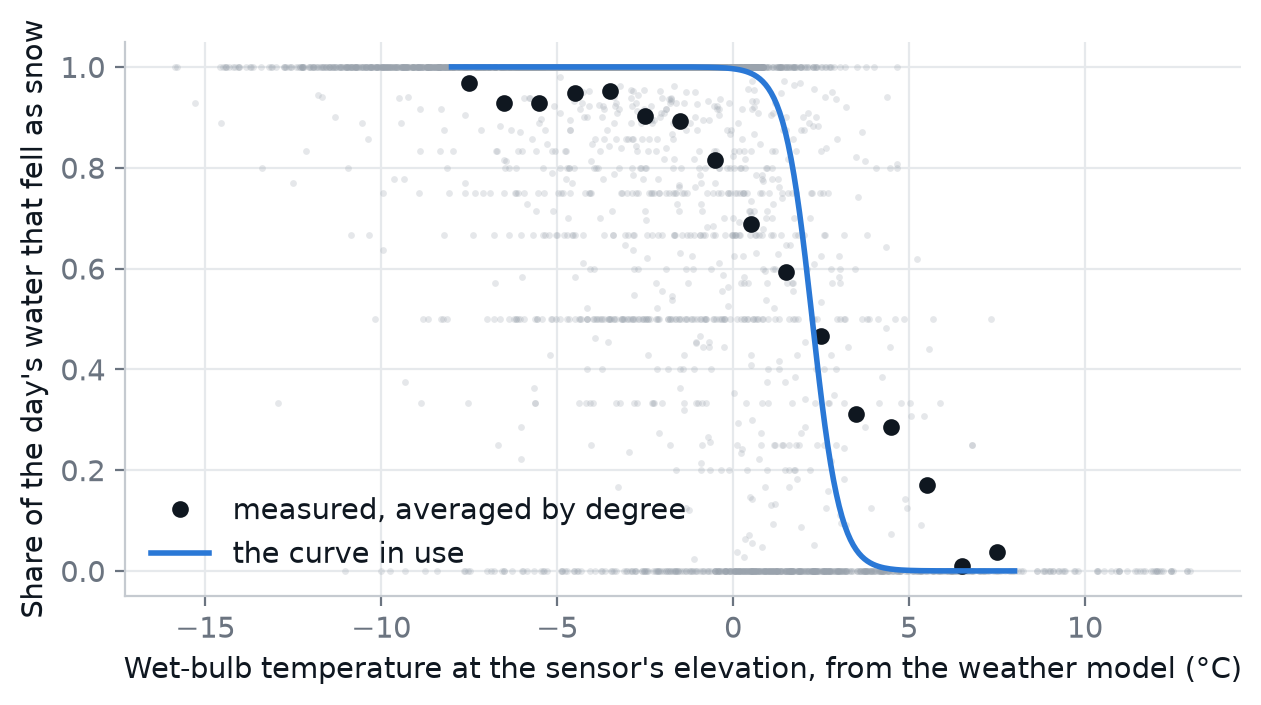
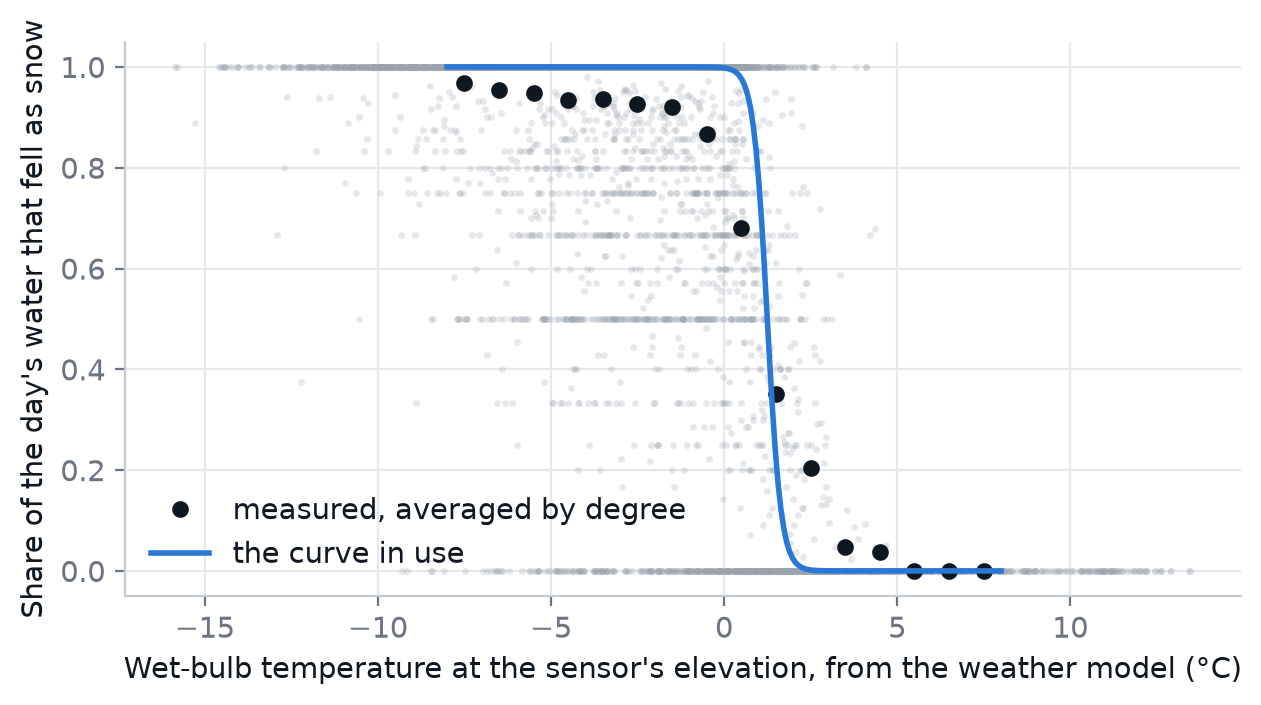
snow: sensor daily records read on the right day; rain/snow split and water correction refit; road sections share one layout; past week in date order

diff --git a/snow/index.html b/snow/index.html
@@ -148,16 +148,20 @@ details.pastdays summary::after{font-size:16px}
 .key .sw i.kband{width:18px;height:8px;border-radius:4px;background:var(--snow);opacity:.35}
 .key .sw i.ktick{width:1.5px;height:12px;border-radius:0;background:var(--ink2);opacity:.6}
 .key .sw i{width:14px;height:10px;border-radius:3px;display:inline-block}
-.roadnote{display:block}
+#roadNote{display:block}
 .roadnote .src{color:var(--muted);font-size:12px;display:block;margin-top:6px}
 .roads{margin:0;padding:0}
 .roads ul{list-style:none;margin:4px 0 8px 23px;padding:0}
 .roads li{font-size:13px;line-height:1.45;margin-bottom:3px;color:var(--ink2)}
 details.roads{margin-top:0;padding:0}
-details.roads summary{font-size:13px;font-weight:400;padding:2px 0;color:var(--ink2);gap:6px}
-details.roads summary::after{font-size:16px}
-details.roads.older{margin:2px 0 6px 23px}
+details.roads summary{font-size:13px;line-height:1.4;font-weight:400;padding:3px 0;color:var(--ink2);gap:8px;align-items:center}
+details.roads summary .sw{flex:none;display:inline-flex;align-items:center;gap:5px;line-height:1.4}
+details.roads summary .sw b{font-size:13px;line-height:1.4}
+details.roads summary .sum{flex:1;min-width:0;line-height:1.4}
+details.roads summary::after{font-size:16px;line-height:1;flex:none}
+details.roads.older{margin:0 0 6px 23px}
 details.roads.older ul{margin-left:0}
+details.roads.older summary{color:var(--muted)}
 .roads .sw span{margin-left:6px;color:var(--muted);font-size:13px}
 details.roads p{font-size:12px;color:var(--muted);margin:0 0 4px 23px}
 .drow{display:grid;grid-template-columns:64px minmax(120px,1fr) 108px 160px 124px;gap:12px;align-items:center;padding:9px 0;border-top:1px solid var(--grid);font-size:13px}
@@ -185,7 +189,7 @@ details.roads p{font-size:12px;color:var(--muted);margin:0 0 4px 23px}
 details{margin-top:14px;padding:0 18px}
 details summary{cursor:pointer;font-size:16px;font-weight:650;padding:16px 0;list-style:none;display:flex;align-items:center}
 details summary::after{content:"+";margin-left:auto;color:var(--muted);font-weight:400;font-size:20px}
-details[open] summary::after{content:"–"}
+details[open] > summary::after{content:"–"}
 details p,details li{font-size:14.5px;color:var(--ink2);margin-bottom:10px;max-width:72ch}
 details b{color:var(--ink);font-weight:650}
 details ul{padding-left:20px;margin-bottom:10px}
@@ -297,7 +301,7 @@ const TZ = "America/Los_Angeles";
 const MODEL_NAMES = {gfs_seamless: "GFS/HRRR", ecmwf_ifs025: "ECMWF", icon_seamless: "ICON", gem_seamless: "GEM"};
 const BINS = [[0.5, 0, "under ½"], [2, 1, "½–2"], [4, 2, "2–4"], [8, 3, "4–8"], [12, 4, "8–12"], [18, 5, "12–18"], [Infinity, 6, "18+"]];
 // Bumped whenever map3d.js changes, so browsers fetch the new copy.
-const BUILD = "26";
+const BUILD = "28";
 const HOME = "palisades";
 let data = null, elevation = "summit", selected = location.hash.slice(1) || HOME;
 const $ = (id) => document.getElementById(id);
@@ -542,7 +546,7 @@ function pastDays(resort, el) {
     return `<div class="srow">${date}<div class="snowbar">${dayBar(p, false)}
       <div class="split"><em>${now == null ? "No sensor reading" : `Sensor: ${now} in on the ground${change == null ? "" : `, ${change > 0 ? "+" : ""}${change} in`}`}</em></div></div>
       <div class="amt">${inches(total)} in</div></div>`;
-  }).reverse().join("");
+  }).join("");
   return rows ? `<details class="pastdays"><summary>Last 7 days</summary><div class="sub">Estimated new snow by 4 pm each day, next to the snow sensor's settled depth.</div><div class="days">${rows}</div></details>` : "";
 }
 
@@ -620,9 +624,8 @@ let map = null, playing = false, playFrame = 0;
 function showTime(value) {
   const t = map.timeAt(value), rate = map.rateAt(value), level = Math.round(map.snowLevelFtAt(value) / 100) * 100;
   $("mapWhen").textContent = Math.abs(value - map.nowStep) < 0.3 ? "Right now" : t.toLocaleString("en-US", {timeZone: TZ, weekday: "short", hour: "numeric"});
-  const falling = rate < 0.02 ? "Not snowing" : `${rate < 0.15 ? "Light snow" : rate < 0.5 ? "Snowing" : "Dumping"}, ${rate.toFixed(1)} in/hr up high`;
-  $("mapWhat").textContent = `${falling} · snow level ${level > 12000 ? "above the peaks" : level.toLocaleString() + " ft"} · ` +
-    (map.stormActive ? "stakes: this storm so far, pale part still to come" : "stakes: the next two days");
+  const falling = rate < 0.02 ? "Not snowing" : `${rate < 0.15 ? "Light snow" : rate < 0.5 ? "Snowing" : "Dumping"}${rate >= 0.05 ? `, ${rate.toFixed(1)} in/hr up high` : ""}`;
+  $("mapWhat").textContent = `${falling} · snow level ${level > 12000 ? "above the peaks" : level.toLocaleString() + " ft"}`;
 }
 function setTime(value) { $("scrub").value = value; map.setTime(value); showTime(value); }
 function togglePlay(on) {
@@ -706,12 +709,14 @@ async function loadRoads() {
     const when = new Date().toLocaleTimeString("en-US", {timeZone: TZ, hour: "numeric", minute: "2-digit"});
     const fresh = closures.filter((c) => c.recent), older = closures.filter((c) => !c.recent);
     const dot = (color) => `<i style="background:${color}"></i>`;
+    // Closed and Chains share one layout: a summary line with a + on the right that opens the detail.
+    const section = (color, label, summary, body, open) => `<details class="roads"${open ? " open" : ""}><summary><span class="sw">${dot(color)}<b>${label}</b></span><span class="sum">${summary}</span></summary>${body}</details>`;
+    const olderList = older.length ? `<details class="roads older"><summary><span class="sum">${older.length} older: ${[...new Set(older.map((c) => c.route))].join(", ")}</span></summary><ul>${older.map((c) => c.html).join("")}</ul></details>` : "";
     $("roadNote").innerHTML =
-      `<div class="roads"><span class="sw">${dot("#d03b3b")}<b>Closed</b>${fresh.length ? "" : `<span>${closures.length ? "nothing new in 2 days" : "none"}</span>`}</span>` +
-        (fresh.length ? `<ul>${fresh.map((c) => c.html).join("")}</ul>` : "") +
-        (older.length ? `<details class="roads older"><summary>${older.length} older: ${[...new Set(older.map((c) => c.route))].join(", ")}</summary><ul>${older.map((c) => c.html).join("")}</ul></details>` : "") + `</div>` +
-      `<details class="roads"><summary><span class="sw">${dot("#f0a80d")}<b>Chains</b></span> ${chains.length ? byRoute("chains").map(([route]) => number(route)).join(", ") : "none"}</summary>` +
-      `<ul>${chains.join("")}</ul><p>${levels.map((level) => `${level}: ${CHAIN_MEANING[level] || ""}`).join(" · ")}</p></details>` +
+      section("#d03b3b", "Closed", fresh.length ? [...new Set(fresh.map((c) => c.route))].join(", ") : closures.length ? "nothing new in 2 days" : "none",
+        (fresh.length ? `<ul>${fresh.map((c) => c.html).join("")}</ul>` : "") + olderList, fresh.length > 0) +
+      section("#f0a80d", "Chains", chains.length ? byRoute("chains").map(([route]) => number(route)).join(", ") : "none",
+        `<ul>${chains.join("")}</ul><p>${levels.map((level) => `${level}: ${CHAIN_MEANING[level] || ""}`).join(" · ")}</p>`, false) +
       `<span class="src">Caltrans, ${when} · California roads only</span>`;
   } catch (error) { $("roadNote").textContent = "Road status is unavailable right now."; }
 }

diff --git a/snow/report/index.html b/snow/report/index.html
@@ -29,15 +29,16 @@ Given the measured water, it misses the snowfall by <b>1.66 in</b> on average, a
 <p><b>What did not work:</b> training on the full 45-year record. Its upper-air data is coarse and does not line up with the forecast models, so it made the forecasts slightly worse, and it is not used.</p>
 
 <h2>2. Rain or snow</h2>
-<p>At 3,594 wet days across 22 Tahoe snow sensors, the share of water that fell as snow is the snowpack's water gain divided by the precipitation. The curve in use turns the model's wet-bulb temperature into that share.</p>
-<figure><img src="rain_or_snow.png" alt="Measured snow share against wet-bulb temperature with the fitted curve"><figcaption>Gray dots are single days. The curve sits about 2.2 °C warmer than textbook values, because air against a mountainside runs colder than the free air the weather model reports.</figcaption></figure>
-<p>Three methods were tried and came out nearly tied; all are about 20% better than calling everything snow. One winter, 2021–22, scores about twice as badly as the others for every method, and we do not yet know why.</p>
+<p>At 5,405 wet days across 22 Tahoe snow sensors, the share of water that fell as snow is the snowpack's water gain divided by the precipitation. The curve in use turns the model's wet-bulb temperature into that share.</p>
+<figure><img src="rain_or_snow.png" alt="Measured snow share against wet-bulb temperature with the fitted curve"><figcaption>Gray dots are single days. Half the water falls as snow at a wet-bulb temperature of about 1.25 °C.</figcaption></figure>
+<p>Three methods were tried and came out tied: about 2.4 mm of water miscalled per wet day, half the 4.9 mm you get by calling everything snow.</p>
+<p><b>A mistake we caught:</b> an earlier version of this test read the sensors' daily records one day off, which made every method look much worse and one winter look broken. Lining the dates up fixed both.</p>
 
 <h2>3. How much water</h2>
-<p>Weather models are consistently too dry or too wet at particular spots in the mountains. Each dot below is one model's total water at one sensor as a share of what the sensor measured (52,140 model-days).</p>
+<p>Weather models are consistently too dry or too wet at particular spots in the mountains. Each dot below is one model's total water at one sensor as a share of what the sensor measured (52,206 model-days).</p>
 <figure><img src="water_by_station.png" alt="Model water as a percentage of measured water at 22 stations for four models"><figcaption>100% is a perfect total. At Mt Rose every model delivers well under half the measured water.</figcaption></figure>
-<p>Correcting each model to its nearest sensor fixes the totals and big storms. It makes ordinary single days slightly worse, because scaling a forecast up also scales up its misses.</p>
-<div class="scroll"><table><tr><th>Water forecast</th><th>Total vs measured</th><th>Daily error (in)</th><th>3-day error (in)</th><th>3-day error, 2 in+ storms</th></tr><tr><td>Raw average of four models</td><td>89%</td><td>0.58</td><td>0.73</td><td>1.44</td></tr><tr><td>Corrected to the sensors (in use)</td><td>104%</td><td>0.61</td><td>0.72</td><td>1.24</td></tr></table></div>
+<p>Correcting each model to its nearest sensor improves every measure below, most of all the big storms.</p>
+<div class="scroll"><table><tr><th>Water forecast</th><th>Total vs measured</th><th>Daily error (in)</th><th>3-day error (in)</th><th>3-day error, 2 in+ storms</th></tr><tr><td>Raw average of four models</td><td>88%</td><td>0.23</td><td>0.43</td><td>0.90</td></tr><tr><td>Corrected to the sensors (in use)</td><td>102%</td><td>0.21</td><td>0.35</td><td>0.59</td></tr></table></div>
 
 <h2>What is not tested yet</h2>
 <p>These are backtests against model archives. Live forecasts made by this site are being saved and will be graded against the sensors by lead day as they come due, including the ± ranges. The correction is fitted on short-range model data and applied to every lead time, which is untested beyond a day or two.</p>

diff --git a/snow/tools/build_report.py b/snow/tools/build_report.py
@@ -135,7 +135,7 @@ def water_figures() -> dict:
     ax.grid(axis="y", visible=False)
     out = {"fig_stations": save(fig, "water_by_station.png"), "pairs": int(len(pairs)), "methods": {}}
     methods = pd.read_csv(TABLES / "bias_methods.csv").groupby("method").mean(numeric_only=True)
-    for key, label in [("raw", "Raw average of four models"), ("qm each model", "Corrected to the sensors (in use)")]:
+    for key, label in [("raw", "Raw average of four models"), ("corrected", "Corrected to the sensors (in use)")]:
         out["methods"][label] = {k: round(float(methods.loc[key, k]), 2) for k in ["total f/o", "daily err in", "3-day err in", "3-day 2in+ err"]}
     return out
 
@@ -180,13 +180,14 @@ Given the measured water, it misses the snowfall by <b>{s['This site']['snow_mae
 
 <h2>2. Rain or snow</h2>
 <p>At {phase_out['days']:,} wet days across 22 Tahoe snow sensors, the share of water that fell as snow is the snowpack's water gain divided by the precipitation. The curve in use turns the model's wet-bulb temperature into that share.</p>
-<figure><img src="{phase_out['fig']}" alt="Measured snow share against wet-bulb temperature with the fitted curve"><figcaption>Gray dots are single days. The curve sits about {phase_out['params']['center_c']:.1f} °C warmer than textbook values, because air against a mountainside runs colder than the free air the weather model reports.</figcaption></figure>
-<p>Three methods were tried and came out nearly tied; all are about 20% better than calling everything snow. One winter, 2021–22, scores about twice as badly as the others for every method, and we do not yet know why.</p>
+<figure><img src="{phase_out['fig']}" alt="Measured snow share against wet-bulb temperature with the fitted curve"><figcaption>Gray dots are single days. Half the water falls as snow at a wet-bulb temperature of about {phase_out['params']['center_c']:.2f} °C.</figcaption></figure>
+<p>Three methods were tried and came out tied: about 2.4 mm of water miscalled per wet day, half the 4.9 mm you get by calling everything snow.</p>
+<p><b>A mistake we caught:</b> an earlier version of this test read the sensors' daily records one day off, which made every method look much worse and one winter look broken. Lining the dates up fixed both.</p>
 
 <h2>3. How much water</h2>
 <p>Weather models are consistently too dry or too wet at particular spots in the mountains. Each dot below is one model's total water at one sensor as a share of what the sensor measured ({water_out['pairs']:,} model-days).</p>
 <figure><img src="{water_out['fig_stations']}" alt="Model water as a percentage of measured water at 22 stations for four models"><figcaption>100% is a perfect total. At Mt Rose every model delivers well under half the measured water.</figcaption></figure>
-<p>Correcting each model to its nearest sensor fixes the totals and big storms. It makes ordinary single days slightly worse, because scaling a forecast up also scales up its misses.</p>
+<p>Correcting each model to its nearest sensor improves every measure below, most of all the big storms.</p>
 <div class="scroll"><table><tr><th>Water forecast</th><th>Total vs measured</th><th>Daily error (in)</th><th>3-day error (in)</th><th>3-day error, 2 in+ storms</th></tr>{water_rows}</table></div>
 
 <h2>What is not tested yet</h2>

diff --git a/snow/tahoe_snow/verify.py b/snow/tahoe_snow/verify.py
@@ -8,7 +8,7 @@ from tahoe_snow.snow import phase
 
 RATIO_ROWS = {"fixed 10:1": "Flat 10:1", "Kuchera": "Kuchera (the common free method)",
               "ridge (all)": "This site's trained ratio"}
-WATER_ROWS = {"raw": "Raw four-model average", "qm each model": "Corrected to SNOTEL (in use)"}
+WATER_ROWS = {"raw": "Raw four-model average", "corrected": "Corrected to the snow sensors (in use)"}
 PHASE_ROWS = {"air temperature threshold": "Air-temperature cutoff", "wet-bulb snow level ramp": "Wet-bulb snow level",
               "wet-bulb logistic": "Wet-bulb curve"}
 
@@ -27,15 +27,13 @@ def scorecard() -> dict:
                   for key, label in RATIO_ROWS.items()]},
         {"title": "Rain or snow.",
          "note": f"Water wrongly called rain or snow per wet day, at 22 Tahoe snow sensors over "
-                 f"{int(split['days'].iloc[0]):,} held-out days. The three methods are close; calling everything "
-                 "snow would miss by 4.9 mm.",
+                 f"{int(split['days'].iloc[0]):,} held-out days. The three methods are tied; calling everything "
+                 f"snow would miss by {float(split['all_snow_error'].iloc[0]):.1f} mm.",
          "columns": ["Method", "Error (mm of water)", "On mixed days (mm)"],
          "rows": [[label + (" (in use)" if key == in_use else ""), f"{split.loc[key, 'held-out error (mm water)']:.2f}",
                    f"{split.loc[key, 'error on mixed days (mm water)']:.2f}"] for key, label in PHASE_ROWS.items()]},
         {"title": "Water.",
-         "note": "Model water against what 22 SNOTEL stations measured, on the 2025 and 2026 winters held out in "
-                 "turn. Correction fixes the totals and big storms; ordinary single days get slightly worse, "
-                 "because scaling a forecast up also scales up its misses.",
+         "note": "Model water against what 22 snow sensors measured, on the 2025 and 2026 winters held out in turn.",
          "columns": ["Method", "Total vs measured", "Daily error (in)", "3-day error (in)",
                      "3-day error, 2 in+ storms (in)"],
          "rows": [[label, f"{100 * water.loc[key, 'total f/o']:.0f}%", f"{water.loc[key, 'daily err in']:.2f}",

diff --git a/snow/tahoe_snow/calibrate.py b/snow/tahoe_snow/calibrate.py
@@ -133,3 +133,33 @@ def fit_and_save(table: pd.DataFrame) -> biascorrect.Correction:
     correction = biascorrect.fit(table)
     (MODELS / "bias.json").write_text(json.dumps(biascorrect.to_json(correction)))
     return correction
+
+
+def storm_test(table: pd.DataFrame, seasons: tuple = (2025, 2026)) -> pd.DataFrame:
+    """Raw four-model average against the corrected one on held-out seasons: daily, 3-day, and big-storm error."""
+    models = sorted(table["model"].unique())
+    wide = table.pivot_table(index=["station", "date", "season"], columns="model", values="forecast_mm").join(
+        table.groupby(["station", "date", "season"])["observed_mm"].first()).dropna().reset_index()
+    wide["raw"] = wide[models].mean(axis=1)
+    rows = []
+    for season in seasons:
+        correction = biascorrect.fit(table[table["season"] != season])
+        test = wide[wide["season"] == season].copy()
+        test["corrected"] = np.mean([[correction.apply(m, station, 0, np.array([value]))[0]
+                                      for station, value in zip(test["station"], test[m])] for m in models], axis=0)
+        for column in ("raw", "corrected"):
+            wet = test[np.maximum(test["raw"], test["observed_mm"]) >= 1]
+            error = wet[column] - wet["observed_mm"]
+            ordered = test.sort_values(["station", "date"])
+            columns = list(dict.fromkeys([column, "observed_mm", "raw"]))
+            three = ordered.groupby("station")[columns].rolling(3).sum().dropna()
+            three = three[np.maximum(three["raw"], three["observed_mm"]) >= 5]
+            miss = (three[column] - three["observed_mm"]).abs()
+            rows.append({"season": season, "method": column, "daily err in": error.abs().mean() / 25.4,
+                         "total f/o": wet[column].sum() / wet["observed_mm"].sum(),
+                         "1in+ day err": error[wet["observed_mm"] >= 25.4].abs().mean() / 25.4,
+                         "3-day err in": miss.mean() / 25.4,
+                         "3-day 2in+ err": miss[three["observed_mm"] >= 50.8].mean() / 25.4})
+    out = pd.DataFrame(rows)
+    out.to_csv(TABLES / "bias_methods.csv", index=False)
+    return out

diff --git a/snow/tahoe_snow/sources/snotel.py b/snow/tahoe_snow/sources/snotel.py
@@ -1,8 +1,9 @@
 """SNOTEL observations from the NRCS AWDB REST API (no key).
 
 Daily values are midnight readings in Pacific Standard Time (UTC-8, no daylight
-saving): the value on date D is the reading at the start of D, so the gain
-during D is value(D+1) - value(D).
+saving): the value dated D is the reading at the end of D (midnight starting D+1),
+so the gain during D is value(D) - value(D-1). Hourly readings carry their own
+timestamps and confirm this.
 """
 import pandas as pd
 
@@ -53,13 +54,13 @@ def hourly(triplet: str, start: str, end: str, max_age_h: float | None = None) -
 
 
 def daily_gains(frame: pd.DataFrame) -> pd.DataFrame:
-    """Per-day gains: row D holds the change from midnight starting D to the next midnight."""
+    """Per-day gains: row D holds the change over day D, from the reading dated D-1 to the one dated D."""
     out = pd.DataFrame(index=frame.index)
     for column in ("swe_mm", "depth_cm", "prec_mm"):
         if column in frame:
-            out[column.replace("_", "_gain_")] = frame[column].shift(-1) - frame[column]
+            out[column.replace("_", "_gain_")] = frame[column] - frame[column].shift(1)
     for column in ("tavg_c", "tmax_c", "tmin_c"):
         if column in frame:
             out[column] = frame[column]
-    consecutive = (frame.index.to_series().shift(-1) - frame.index.to_series()) == pd.Timedelta(days=1)
+    consecutive = (frame.index.to_series() - frame.index.to_series().shift(1)) == pd.Timedelta(days=1)
     return out[consecutive.to_numpy()]

diff --git a/snow/tahoe_snow/snow/dataset.py b/snow/tahoe_snow/snow/dataset.py
@@ -99,7 +99,7 @@ def manual_events(daily: pd.DataFrame, station: pd.Series, windows: pd.DataFrame
 def snotel_events(gains: pd.DataFrame, triplet: str, windows: pd.DataFrame) -> pd.DataFrame:
     """Events at one SNOTEL station; liquid is the SWE gain, snow is the depth gain."""
     gains = gains[gains.index >= PROFILE_START]
-    end_utc = gains.index + pd.Timedelta(days=1, hours=PST_OFFSET_H)
+    end_utc = gains.index + pd.Timedelta(days=1, hours=PST_OFFSET_H)   # day D runs midnight to midnight PST
     rows = windows.reindex(end_utc)
     rows.index = gains.index
     out = features.add_static(rows, gains["swe_gain_mm"], STATIONS[triplet].elev_m, gains.index.day_of_year)

diff --git a/snow/tests/test_snow_model.py b/snow/tests/test_snow_model.py
@@ -140,8 +140,10 @@ def test_snotel_parse_converts_units_and_drops_suspect():
     assert abs(frame.loc["2019-02-13", "swe_mm"] - 254.0) < 1e-9
     assert frame.loc["2019-02-13", "tavg_c"] == 0.0
     assert "2019-02-15" not in frame.index.astype(str)
+    # The value dated the 14th is the reading at the end of the 14th, so that day's gain is 14th minus 13th.
     gains = snotel.daily_gains(frame)
-    assert abs(gains.loc["2019-02-13", "swe_gain_mm"] - 25.4) < 1e-9
+    assert abs(gains.loc["2019-02-14", "swe_gain_mm"] - 25.4) < 1e-9
+    assert "2019-02-13" not in gains.index.astype(str)
 
 
 def test_phase_fraction_limits_and_monotonic():
